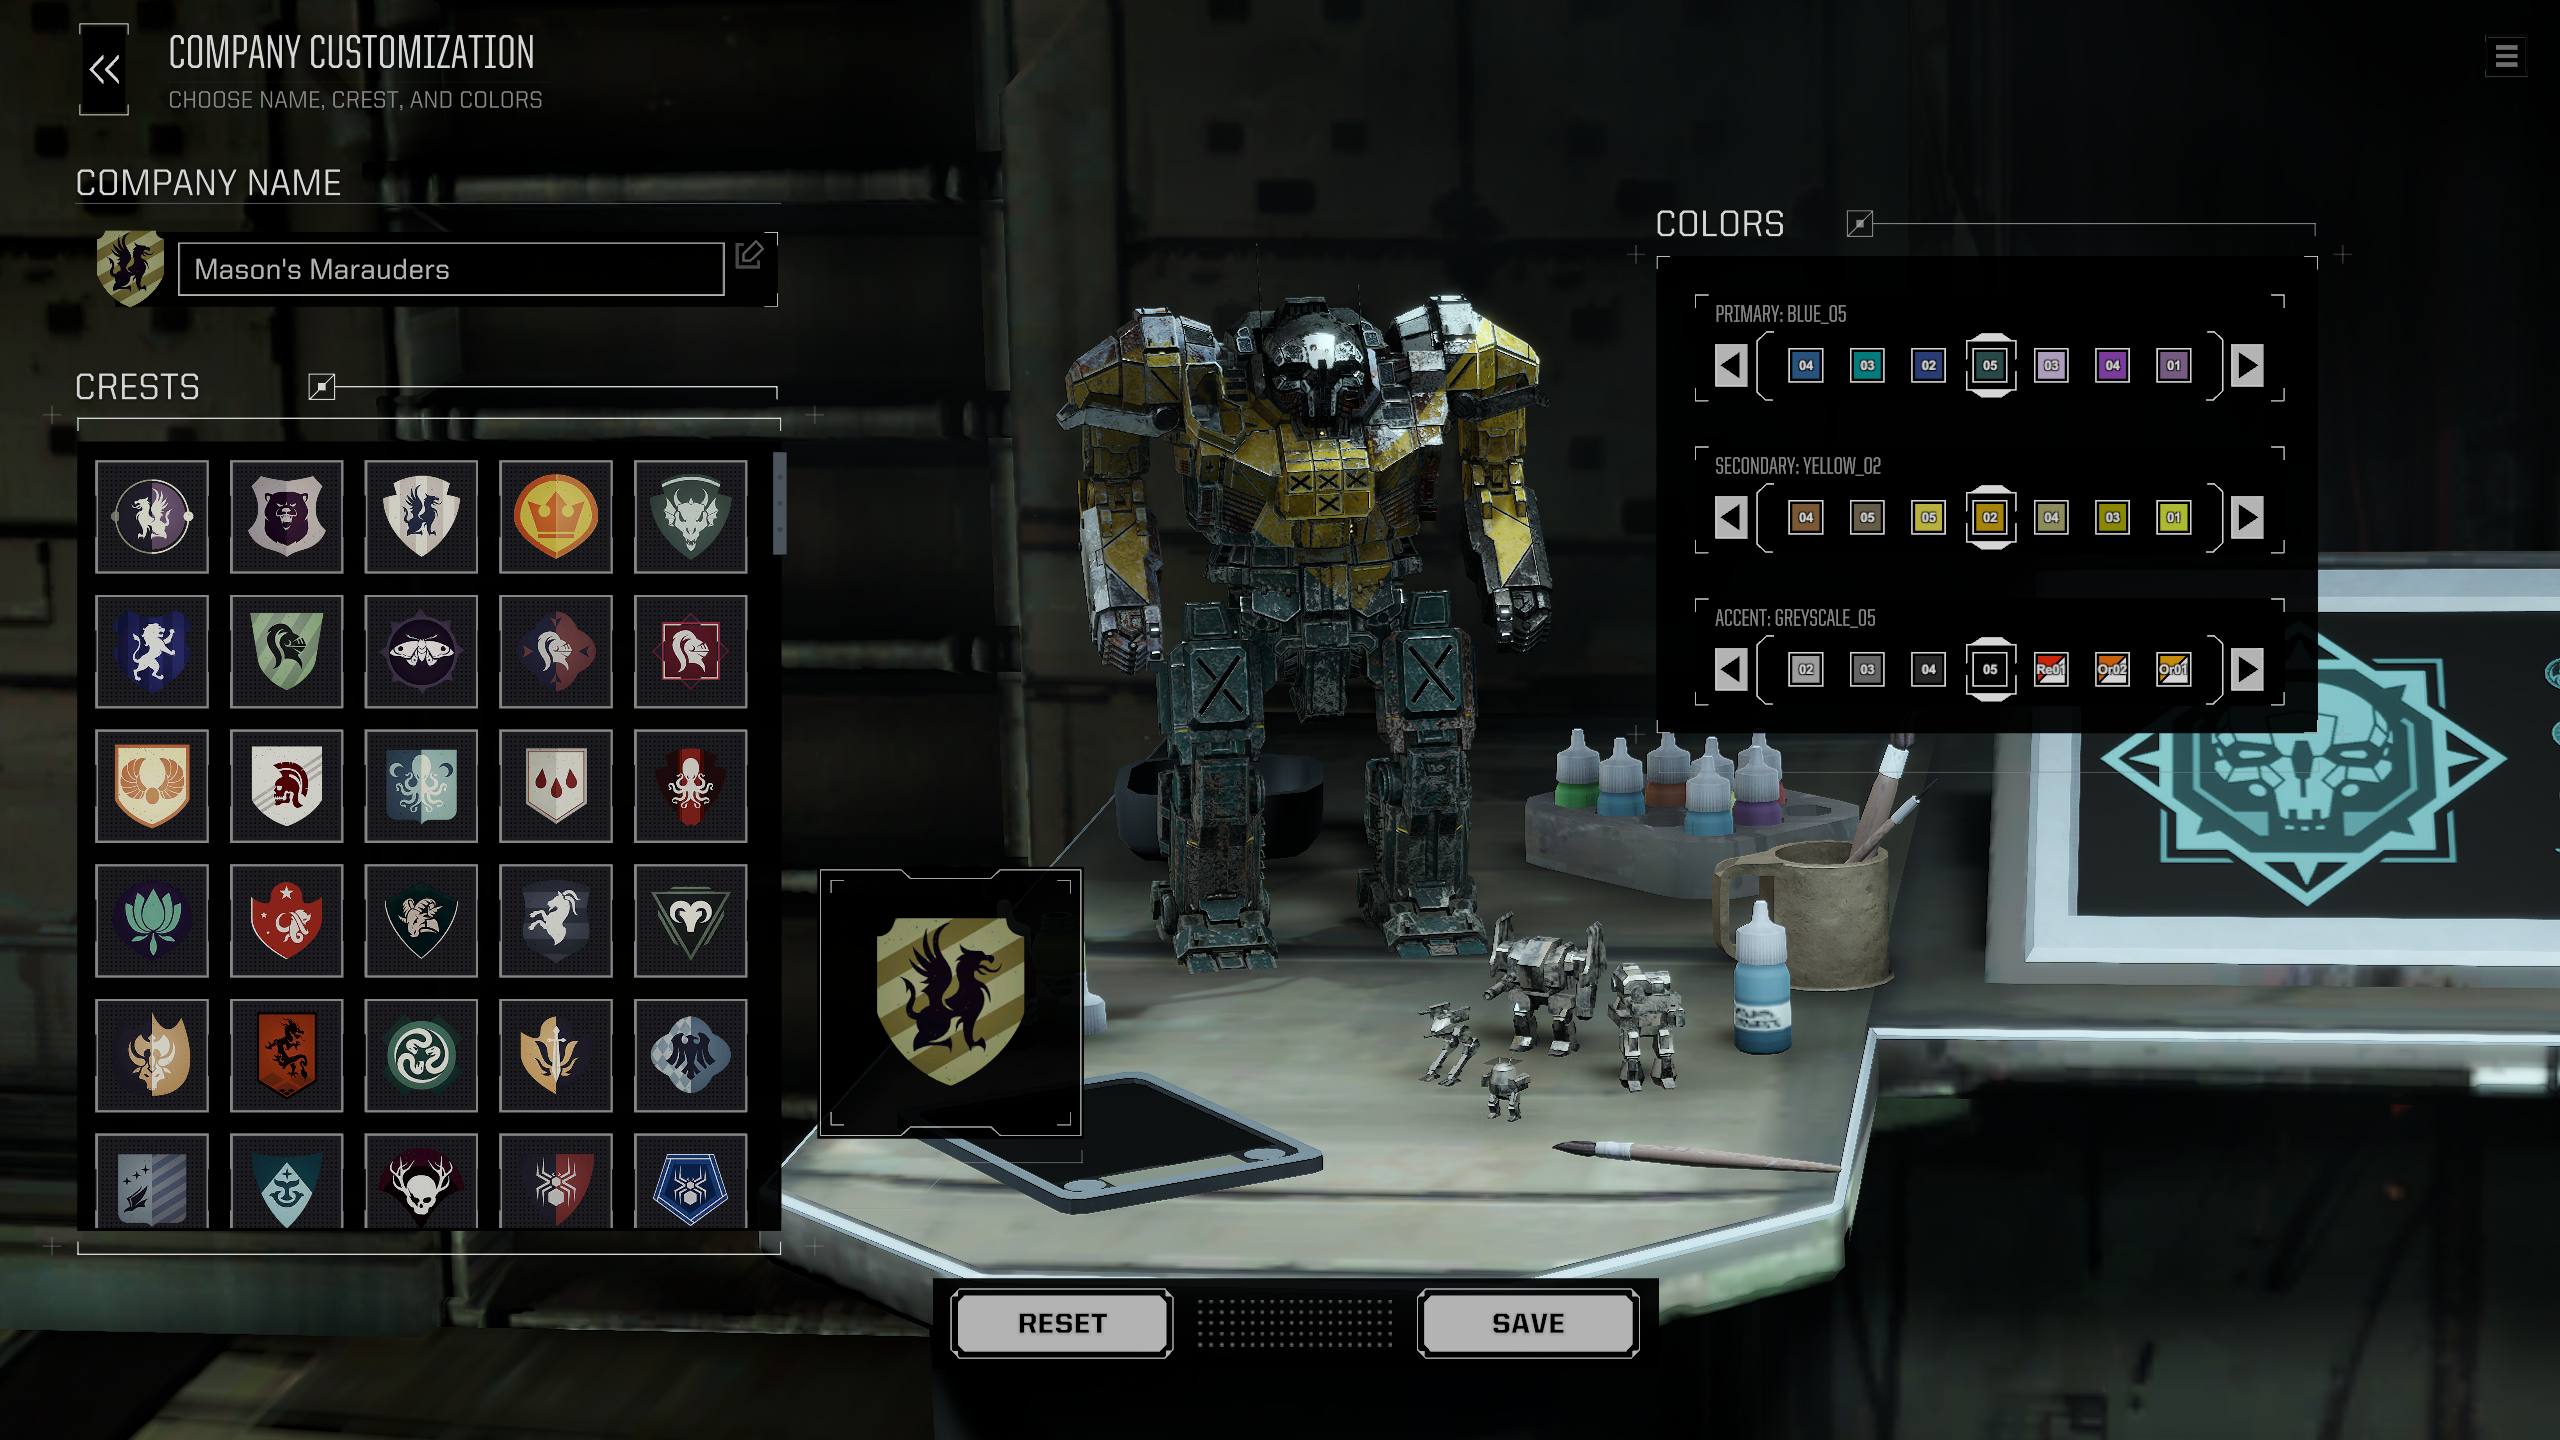
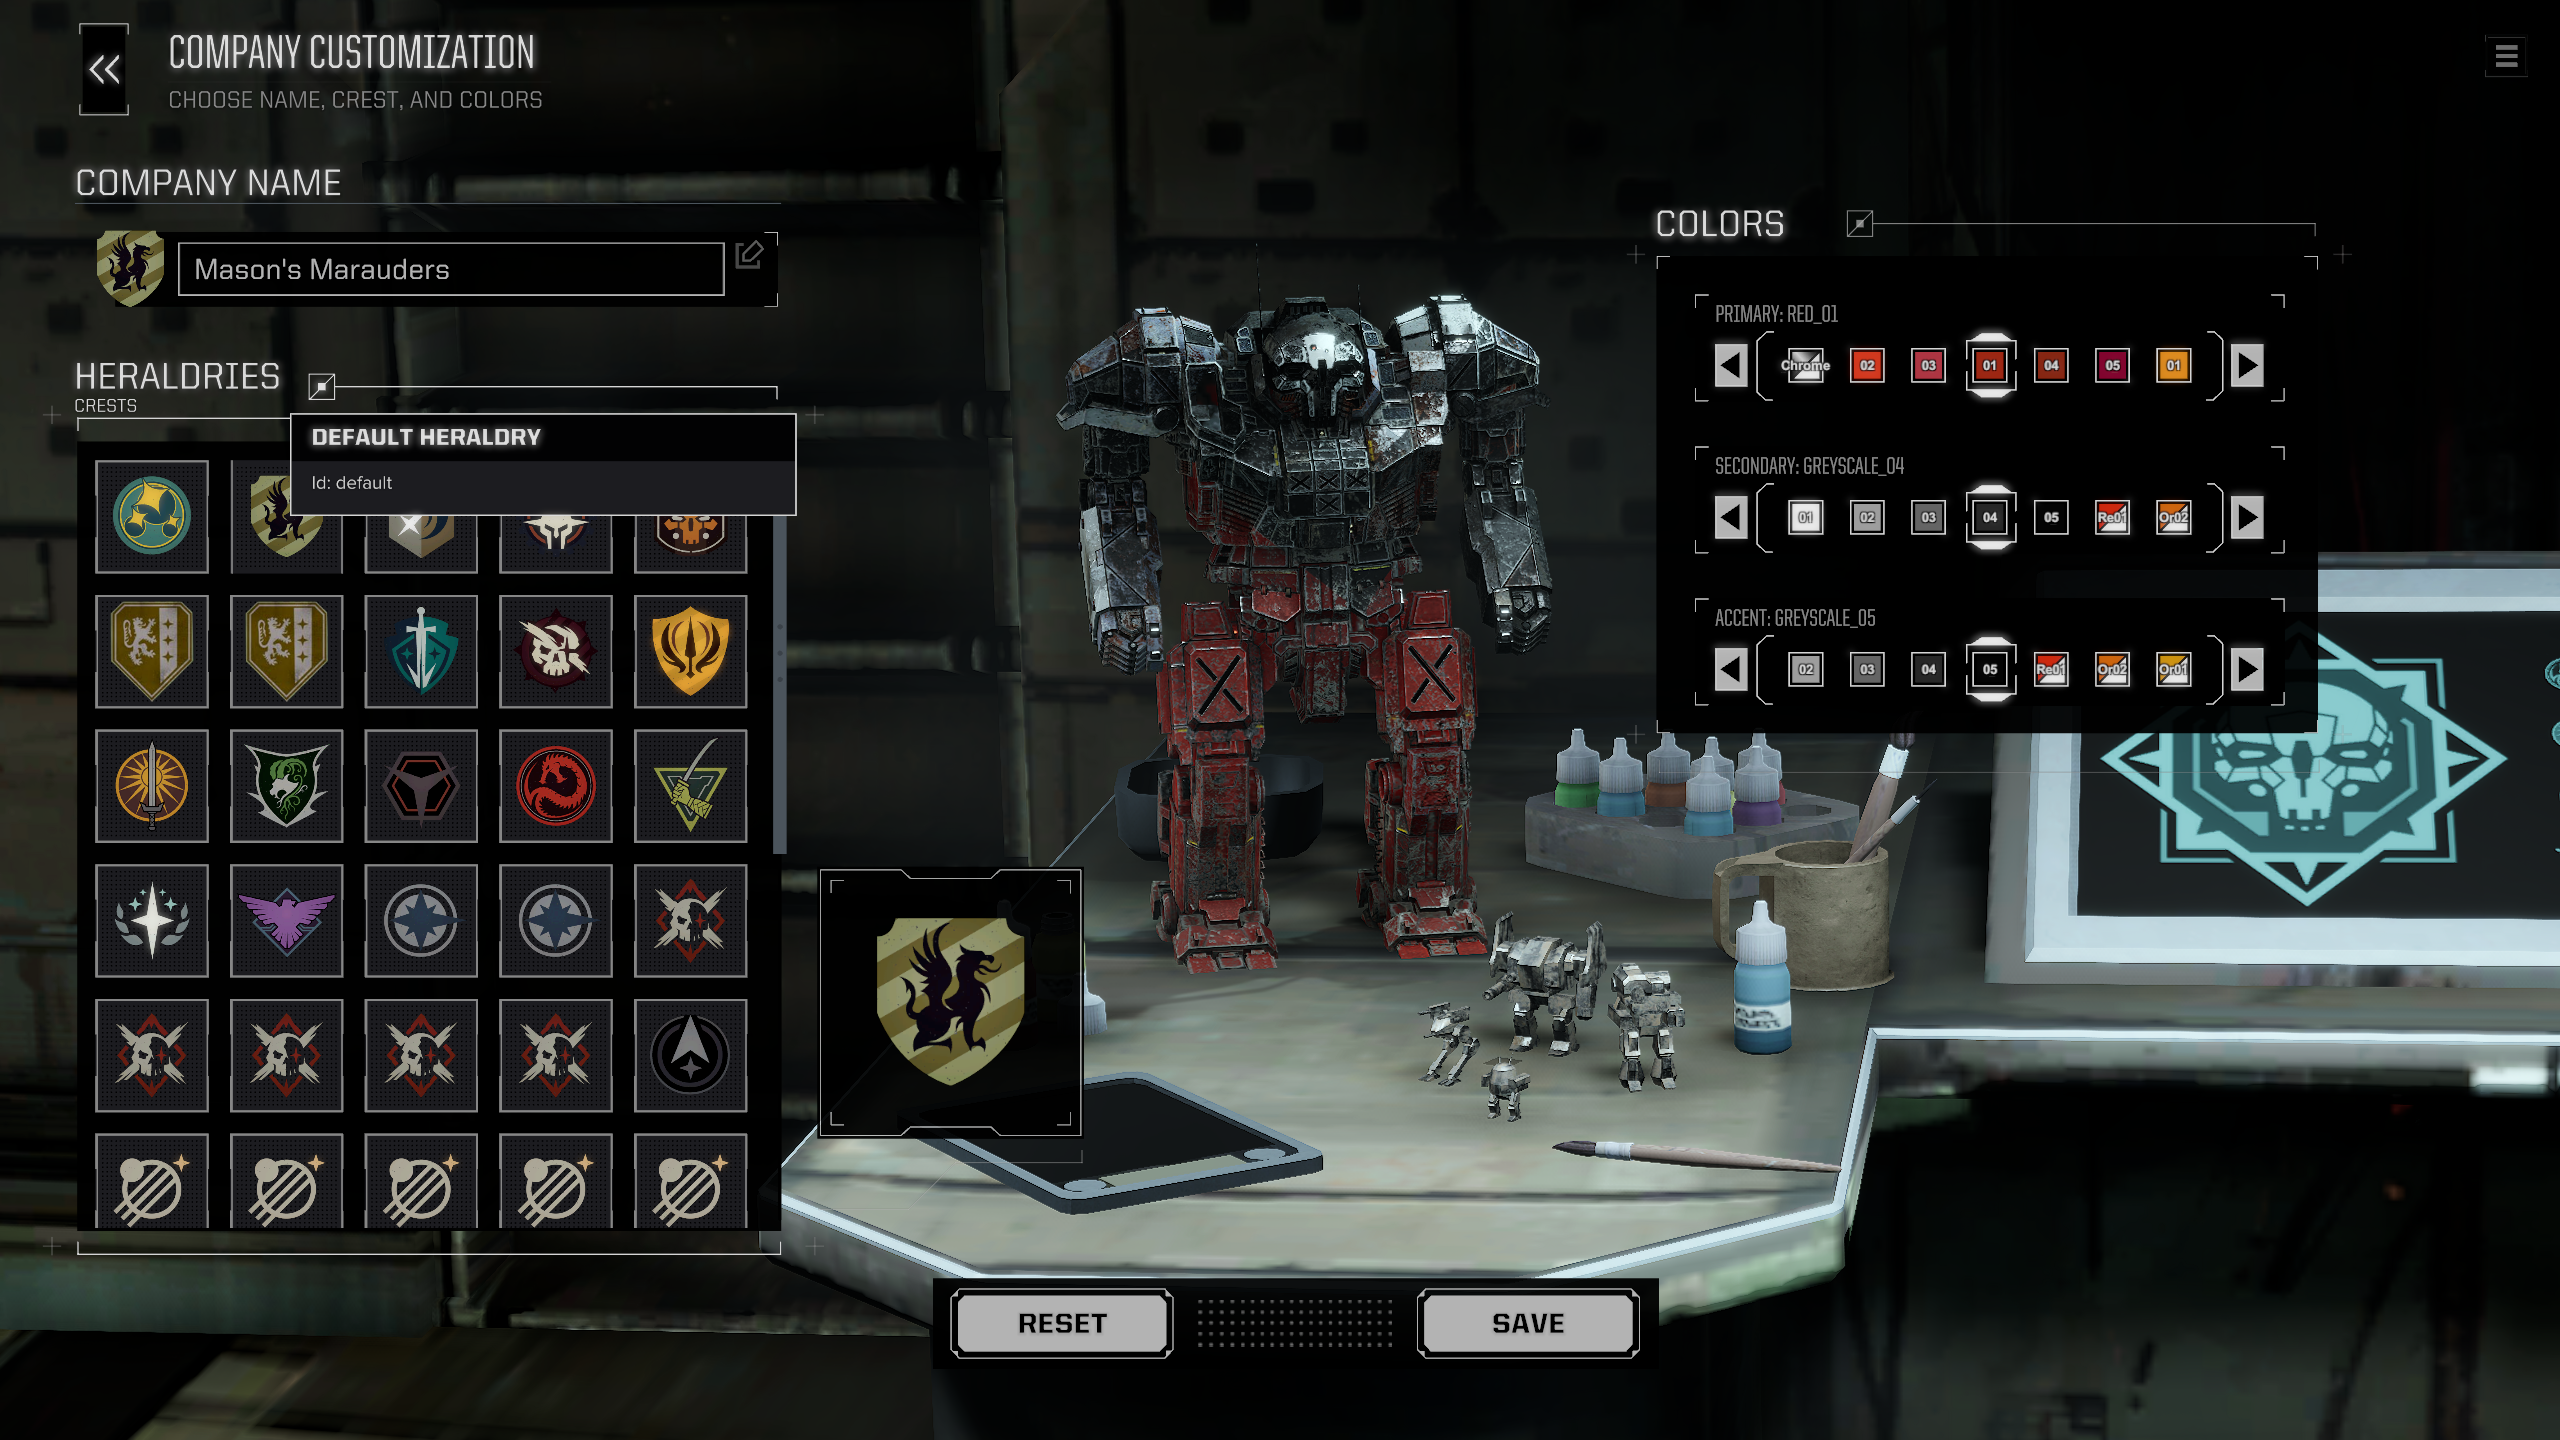
Update mod files

diff --git a/README.md b/README.md
@@ -1,7 +1,13 @@
-# BT Heraldry Color Helper
+# Heraldry Picker
 
-This small BattleTech mod displays the ColorSwatch ID on the Heraldry screen in-game to help in creating new color schemes, which should be particularly useful since the colors appear to be randomly ordered on that screen.
+This small BattleTech mod improves the Company Customization screen with two features:
 
-For non-modders, all faction units in BattleTech use a HeraldryDef file to define their specific color scheme, and you need these color IDs to create or modify those files. You can look [here](https://steamcommunity.com/sharedfiles/filedetails/?l=german&id=2638707115) for a guide on how you can edit them.
+1. **Heraldry Selection:** Adds a "Heraldries" tab to the "Crests" selector. This new tab lists all faction heraldries from the game and any installed mods. Clicking a heraldry instantly applies its color scheme to your company.
+2. **Color ID Display:** Displays the ID of the selected color and each color swatch, which is helpful for modders creating new `HeraldryDef` files. This is particularly useful because the colors in the selection panel are not sorted in a predictable order.
 
-![Heraldry Color Helper Screenshot](heraldry.png)
+This makes it much easier to apply a faction's color scheme to your 'Mechs or to quickly find the color IDs you need for your own modding projects.
+
+> [!TIP]
+> For non-modders, each faction and unit in BattleTech has its own 'HeraldryDef' file that defines its color scheme and emblem (crest). You can find a guide [here](https://steamcommunity.com/sharedfiles/filedetails/?l=german&id=2638707115) on how to edit them.
+
+![Heraldry Picker Screenshot](heraldry.png)
